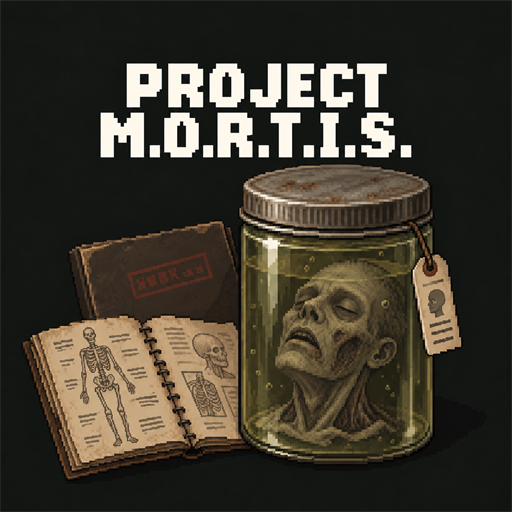
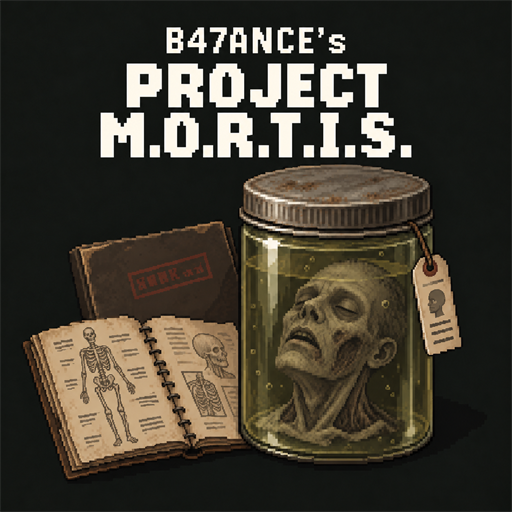
Use branded MORTIS thumbnail in 0.26.0-dev.8

Changed region(s): [[0.3125, 0.0312, 0.6875, 0.125]]

diff --git a/docs/VALIDATION.md b/docs/VALIDATION.md
@@ -1,6 +1,32 @@
 # Current validation
 
-Current development version: 0.26.0-dev.7
+Current development version: 0.26.0-dev.8
+
+[VERIFIED - source] Compatible branded-artwork iteration based on c51c2ba,
+following the dev.7 publication receipt (PR #14). Preserve that immutable receipt
+and both full-size original PNGs. Current preview.png and mod thumbnail are
+identical 512x512 full-canvas exports of the new supplied branded image.
+The small icon and gameplay/API/save/network behavior are unchanged; runtime
+Lua changes are version mirrors only.
+
+[TESTED - offline Windows] PNG decode/dimensions/hash/CRC checks, exact source
+preservation, visual inspection, version mirrors, runtime-input inventory and
+overview binding PASS. Full host suite PASS: 66 Lua test files, 32 Python cases,
+26 diagnostic cases, 130 syntax files, 15 version mirrors and 87 translation
+catalogs; 120 exact Knowledge input files verified. All three exact-input
+Nightfall regressions PASS; 224 current MORTIS input files verified. No native
+runtime evidence is inferred. No package, deployment or Workshop upload.
+Native thumbnail display stays HUMAN / NOT TESTED; existing gameplay G7
+BLOCKED / NOT TESTED and stable G8 BLOCKED.
+
+Commands: python -B scripts/check_versions.py; python -B scripts/check_overview.py;
+python -B scripts/validate.py --knowledge-and-wisdom ../.mortis-merge-fixtures/knowledge-6ba66c0 --dependency-evidence docs/evidence/knowledge-dependency-6ba66c0-git-bytes.json;
+python -B scripts/check_nightfall_integration.py --knowledge-and-wisdom ../.mortis-merge-fixtures/knowledge-6ba66c0 --nightfall ../.mortis-merge-fixtures/nightfall-5690021-git-lf.
+Asset validation: Windows System.Drawing full-canvas export and decode;
+standard Python PNG chunk/CRC/dimension/SHA-256 checks. Provenance in
+assets/branding/README.md.
+
+## Historical 0.26.0-dev.7 source and publication evidence
 
 Publication preparation follows the explicit merge-and-publish request. Source
 includes merged PR #13 / da769ee. The outgoing note describes the current

diff --git a/assets/branding/README.md b/assets/branding/README.md
@@ -1,5 +1,25 @@
 # MORTIS supplied thumbnail
 
+## Current branded revision - 0.26.0-dev.8
+
+The owner supplied the branded revision in the same thumbnail conversation.
+It adds the B47ANCE's heading. Use it for the same requested thumbnail role;
+no additional artist/licensing claims are inferred.
+
+- Original: `mortis-thumbnail-branded-original.png`, PNG, 1254x1254,
[1 lines of base64/hex data omitted]
+- Exports: root `preview.png` and `src/ProjectMORTIS/thumbnail.png`, identical
[1 lines of base64/hex data omitted]
+- Export uses the same Windows System.Drawing settings described below,
+  preserving the full canvas without crop/redraw. Both decode; visual review
+  confirms the branded heading and complete composition remain visible.
+- Original matches the supplied attachment byte for byte. Previous full-size
+  original remains here; previous exports remain in Git and the dev.7 package.
+- This revision has no package/upload/native-test evidence. The dev.7 Workshop
+  receipt records the previous thumbnail, never this replacement.
+
+## Historical first supplied thumbnail - 0.26.0-dev.7
+
 The project owner supplied this artwork in chat and requested its use as the
 new project thumbnail. This records permission for that requested use; no
 additional artist attribution or third-party licensing claim is asserted.

diff --git a/docs/VERSION_POLICY.md b/docs/VERSION_POLICY.md
@@ -59,4 +59,11 @@ historical; the API audit grants no runtime evidence.
 The owner-supplied thumbnail replaces the current authoring PNGs; previous Git
 artwork and immutable packages/publication records retain their original bytes.
 Runtime changes are version mirrors only; public API and save/network schemas
-are unchanged. No current dev.7 package or Workshop upload is declared.
+are unchanged. The initial dev.7 asset checkpoint declared no package/upload;
+its subsequent publication is recorded separately in the immutable receipt.
+
+0.26.0-dev.8 is a compatible supplied-artwork revision within the unreleased
+0.26.0 target. Only branding exports, version mirrors and their evidence change;
+API 1.6.0, local creator format and world/network schemas stay unchanged. The
+dev.7 publication receipt remains historical and exact. New upload requires a
+separate publish request; this asset change grants no native acceptance.

diff --git a/CHANGELOG.md b/CHANGELOG.md
@@ -1,5 +1,11 @@
 # Changelog
 
+## 0.26.0-dev.8 - branded thumbnail revision, 2026-10-17
+
+- Replace the project/mod thumbnail and Workshop preview authoring assets with the newly supplied artwork carrying the B47ANCE's heading. Preserve both full-size originals and the dev.7 publication receipt.
+- Export the complete image at 512x512 without cropping or redrawing; leave the small UI icon and gameplay/API/save/network behavior unchanged.
+- Compatible asset checkpoint within the unreleased 0.26.0 target. Offline asset/source checks only; no packaging, deployment, merge or Workshop upload. Native testing remains human-operated; G7/stable G8 remain blocked.
+
 ## 0.26.0-dev.7 - supplied project thumbnail, 2026-10-17
 
 - Use the owner-supplied artwork for the 512x512 project/mod thumbnail and Workshop preview; preserve the original 1254x1254 PNG as an authoring source.

diff --git a/docs/MASTER_ROADMAP.md b/docs/MASTER_ROADMAP.md
@@ -1,6 +1,6 @@
 # Project M.O.R.T.I.S. Master Roadmap
 
-Canonical version: 0.26.0-dev.7; public API 1.6.0.
+Canonical version: 0.26.0-dev.8; public API 1.6.0.
 
 Authority/replication source corrections are recorded in [AUTHORITY_REPLICATION.md](AUTHORITY_REPLICATION.md); native verification remains open. Observed locomotion baseline capture/restoration is implemented; see [native scope and limits](LOCOMOTION_RESTORATION.md). Dependency identity migration is implemented with offline archive/history integration coverage. Food-provider transaction coordination is implemented offline; Nightfall consumer migration is implemented offline; full native animation/lunge restoration remains a follow-up; native dependency load/save/MP tests are still required.
 

diff --git a/docs/AUTHORITY_REPLICATION.md b/docs/AUTHORITY_REPLICATION.md
@@ -1,6 +1,6 @@
 # Authority and replication correction
 
-Current development iteration: 0.26.0-dev.7. Public API 1.6.0, replication protocol 2, and existing component schemas remain separate. All peers must run this same mod build: old clients do not implement assignment-clear messages. There is no rolling mixed-build compatibility claim.
+Current development iteration: 0.26.0-dev.8. Public API 1.6.0, replication protocol 2, and existing component schemas remain separate. All peers must run this same mod build: old clients do not implement assignment-clear messages. There is no rolling mixed-build compatibility claim.
 
 ## State ownership and transitions
 

diff --git a/docs/WORKSHOP_PUBLISHING.md b/docs/WORKSHOP_PUBLISHING.md
@@ -1,6 +1,12 @@
 # MORTIS Workshop MP-test distribution
 
-## Dev.7 upload selection
+## Current dev.8 authoring status
+
+The branded thumbnail source checkpoint 0.26.0-dev.8 is not packaged or uploaded.
+The latest observed Workshop distribution remains dev.7 with the previous
+thumbnail, recorded below. A new explicit publish request is required.
+
+## Historical dev.7 upload selection
 
 The user explicitly requested merging PR #13 and publishing its new thumbnail.
 The artwork PR is merged as da769eef6bb2d2761ecf958a0f1ee7c857a01552.

diff --git a/TESTER_HANDOFF.md b/TESTER_HANDOFF.md
@@ -1,4 +1,4 @@
-# Project M.O.R.T.I.S. 0.26.0-dev.7 playtester handoff
+# Project M.O.R.T.I.S. 0.26.0-dev.8 playtester handoff
 
 Dev.6 adds [private result-record validation](docs/RUNTIME_RESULT_FORMAT.md),
 exact-input offline integration CI and [API/crash-boundary findings](docs/ACTIVE_HOURS_API_AUDIT.md).

diff --git a/README.md b/README.md
@@ -6,7 +6,7 @@
 
 Project M.O.R.T.I.S. is a public custom-zombie API and framework for Project Zomboid Build 42.
 
-- Version: `0.26.0-dev.7`
+- Version: `0.26.0-dev.8`
 - Mod ID: `ProjectMORTIS`
 - Author: B47ANCE
 - Minimum game version: `42.20.3`
